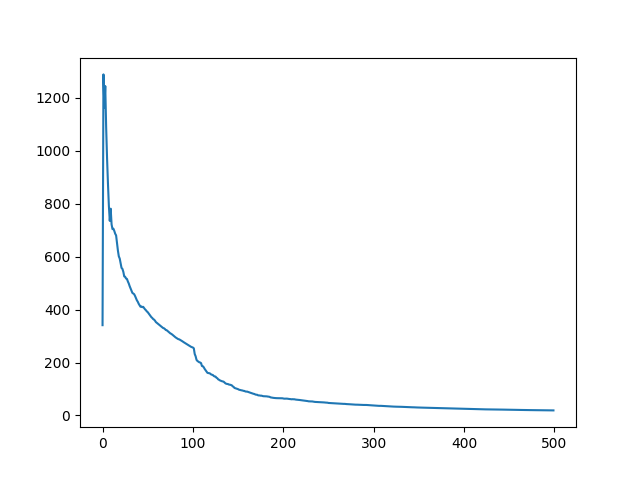
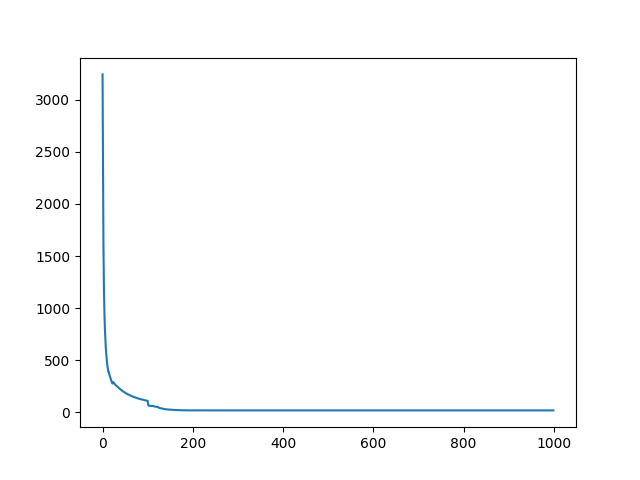
Updated QLearning to reflect A2

diff --git a/gymnasium_env/envs/v0_thin_ice_train.py b/gymnasium_env/envs/v0_thin_ice_train.py
@@ -4,7 +4,7 @@ import matplotlib.pyplot as plt
 import random
 import pickle
 #import stable.baseliens3 import A2C
-import v0_thin_ice_env #including it so it registers 
+import v0_thin_ice_env as ti #including it so it registers 
 import os
 
 from thin_ice_training_agent import ThinIceTrainingAgent
@@ -13,18 +13,13 @@ class ThinIceQLearningAgent(ThinIceTrainingAgent):
     def __init__(self, env_id: str ='thin-ice-v0', level_str: str ='Level0.txt'):
         super().__init__(env_id, level_str)
 
-    def train(self, n_episodes: int = 100):
-        env = gym.make(self.env_id, level_str=self.level_str)
+    def train(self, gamma: float = 0.9, step_size: float = 0.1, epsilon: float = 0.1, n_episodes: int = 1000):
+        env: ti.ThinIceEnv = gym.make(self.env_id, level_str=self.level_str)
 
-        # Table Shape is Number of Cols (X) * Num of Rows (Y) * Number of Actions 
-        q = np.zeros((env.unwrapped.level.get_num_cols(),
-            env.unwrapped.level.get_num_rows(),
-            env.action_space.n))
-
-        #Hyperparameters
-        alpha = 0.9 
-        discount_factor = 0.9 #can also be called gamma
-        epsilon = 1  #100% random actions
+        # Initialize Q(s,a) arbitrarily for all s in S, a in A
+        q = np.random.rand(env.unwrapped.level.get_num_cols(), env.unwrapped.level.get_num_rows(),
+            env.action_space.n)
+        q[env.unwrapped.target[0], env.unwrapped.target[1], :] = 0 # Ensure that goal (terminal) state is initialized to 0
 
         #keeping count of number of stesp per episode (is it becoming more efficient or not)
         number_of_steps = np.zeros(n_episodes)
@@ -40,8 +35,8 @@ class ThinIceQLearningAgent(ThinIceTrainingAgent):
             while (not terminated):
                 
                 #picking an action based on episoln greedy
-                if random.random() < epsilon:
-                    action = env.action_space.sample()
+                if np.random.rand() < epsilon:
+                    action = np.random.choice(env.action_space.n)
                 else:
                     #thing we learned in class
                     q_state_index = tuple(state)
@@ -53,8 +48,8 @@ class ThinIceQLearningAgent(ThinIceTrainingAgent):
                 q_new_state_index = tuple(new_state) # Generic index of X',Y', where X',Y' is the new position after Action
 
                 #Update q table with formula from class
-                q[q_state_action_index] = q[q_state_action_index] + alpha * (
-                        reward + discount_factor * np.max(q[q_new_state_index]) - q[q_state_action_index]
+                q[q_state_action_index] = q[q_state_action_index] + step_size * (
+                        reward + gamma * np.max(q[q_new_state_index]) - q[q_state_action_index]
                 )
                 
                 #Update State
@@ -109,7 +104,7 @@ class ThinIceQLearningAgent(ThinIceTrainingAgent):
 
 if __name__ == '__main__':
     agent: ThinIceQLearningAgent = ThinIceQLearningAgent('thin-ice-v0', 'level_5.txt')
-    agent.train(500)
+    agent.train()
     agent.deploy(render=True)
 
 

diff --git a/gymnasium_env/envs/v0_thin_ice_env.py b/gymnasium_env/envs/v0_thin_ice_env.py
@@ -23,9 +23,10 @@ class ThinIceEnv(gym.Env):
     def __init__(self, render_mode=None, level_str='level_0.txt'):
         self.render_mode = render_mode
 
-        # Initialize the level and player
+        # Initialize the level, player, and target properties
         self.level = ti.Level(level_str)
         self.player = ti.ThinIcePlayer(self.level)
+        self.target = self.level.target
 
         # Define action and observation space
         self.action_space = spaces.Discrete(len(ti.PlayerActions))  #randomly select an action

diff --git a/gymnasium_env/envs/thin_ice_training_agent.py b/gymnasium_env/envs/thin_ice_training_agent.py
@@ -17,7 +17,7 @@ class ThinIceTrainingAgent(ABC):
         self.reference_name: str = self.env_id + "-" + self.level_str.split('.')[0]
 
     @abstractmethod
-    def train(self, n_episodes: int = 100):
+    def train(self, gamma: float = 0.9, step_size: float = 0.1, epsilon: float = 0.1, n_episodes: int = 1000):
         pass
 
     @abstractmethod
